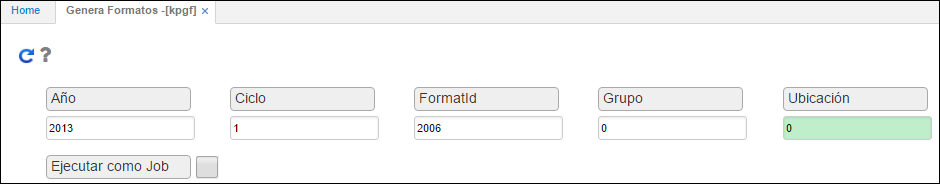
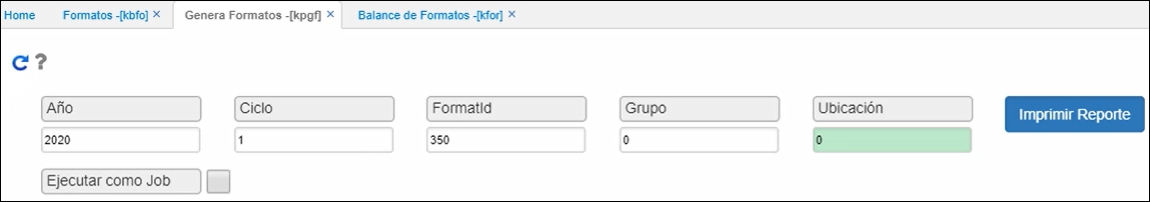
kpgf

diff --git a/Operacion/erp/contabilidad/kproceso/kpgf.md b/Operacion/erp/contabilidad/kproceso/kpgf.md
@@ -9,6 +9,13 @@ editable: si
 
 La aplicación **KPGF** permite generar los formatos que han sido previamente parametrizados en la aplicación [**KBFO - Formatos**](http://docs.oasiscom.com/Operacion/erp/contabilidad/kbasica/kbfo).  
 
+>+ [Formato 350 - Retención en la Fuente](http://docs.oasiscom.com/Operacion/erp/contabilidad/kproceso/kpgf#formato-350---retención-en-la-fuente)
+>+ [Formato 300 - Declaración de IVA](http://docs.oasiscom.com/Operacion/erp/contabilidad/kproceso/kpgf#formato-300---declaración-de-iva)
+>+ [Medios magnéticos para el Ingreso de Activo Fijo por Compras](http://docs.oasiscom.com/Operacion/erp/contabilidad/kproceso/kpgf#medios-magnéticos-para-el-ingreso-de-activo-fijo-por-compras)
+>+ [Situación Financiera](http://docs.oasiscom.com/Operacion/erp/contabilidad/kproceso/kpgf#situación-financiera)
+>+ [Proceso Chip Presupuestal](http://docs.oasiscom.com/Operacion/erp/contabilidad/kproceso/kpgf#proceso-chip-presupuestal)
+
+
 Diligenciamos los campos y damos click en botón consultar ![](actualizar.png).  
 
 ![](KPGF1.png)
